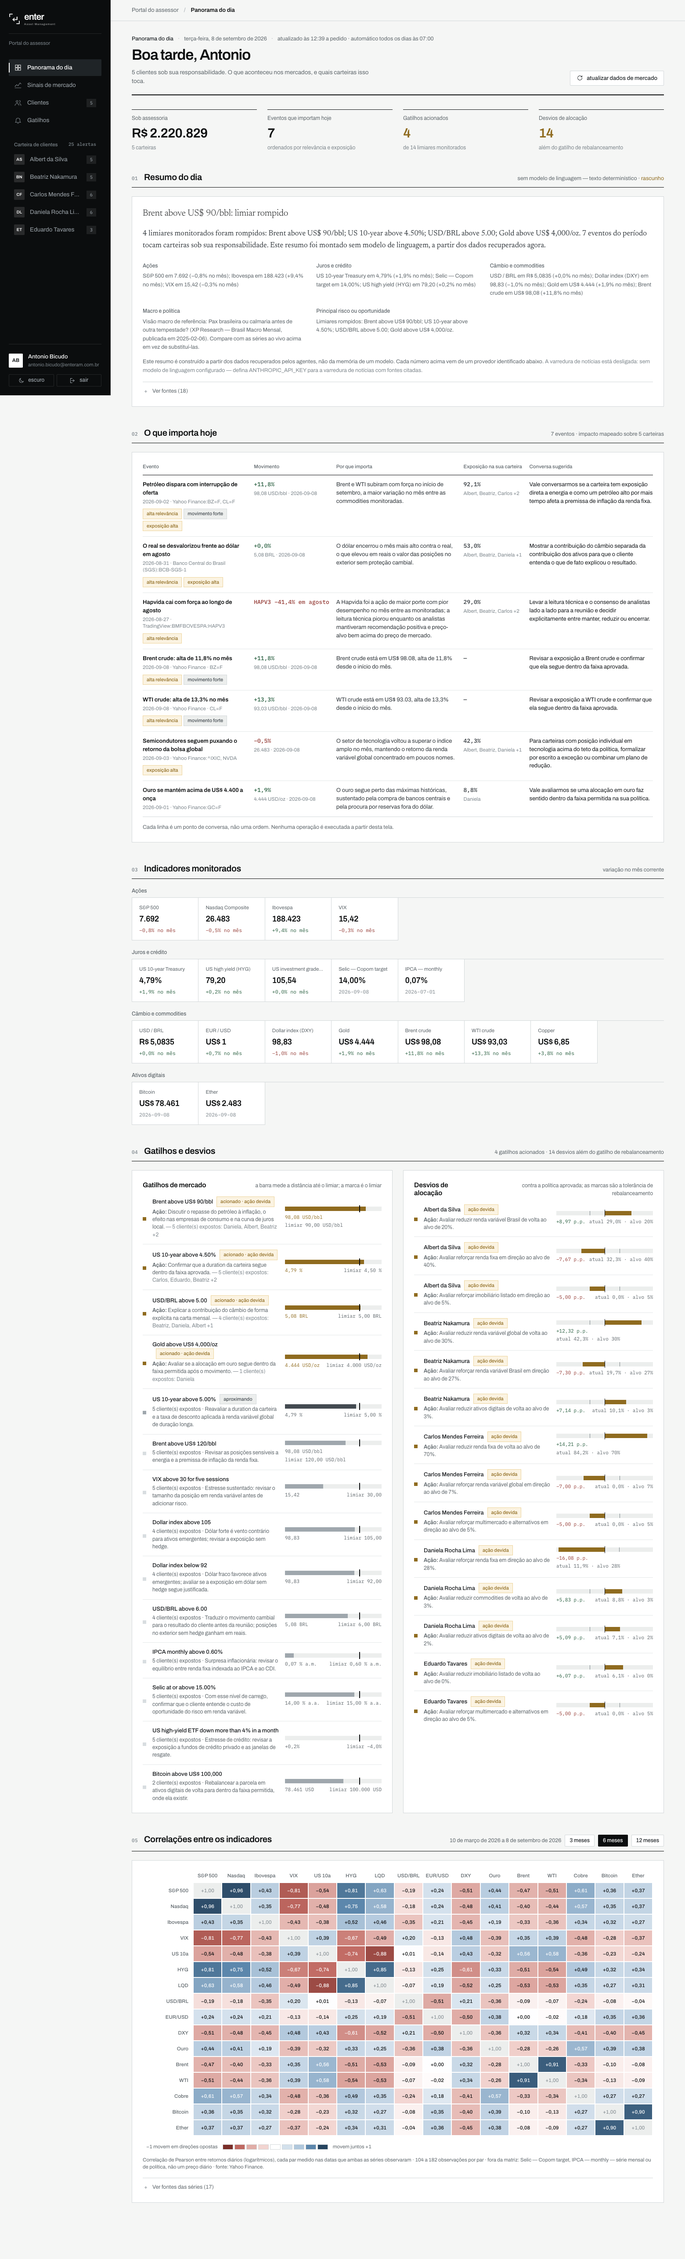
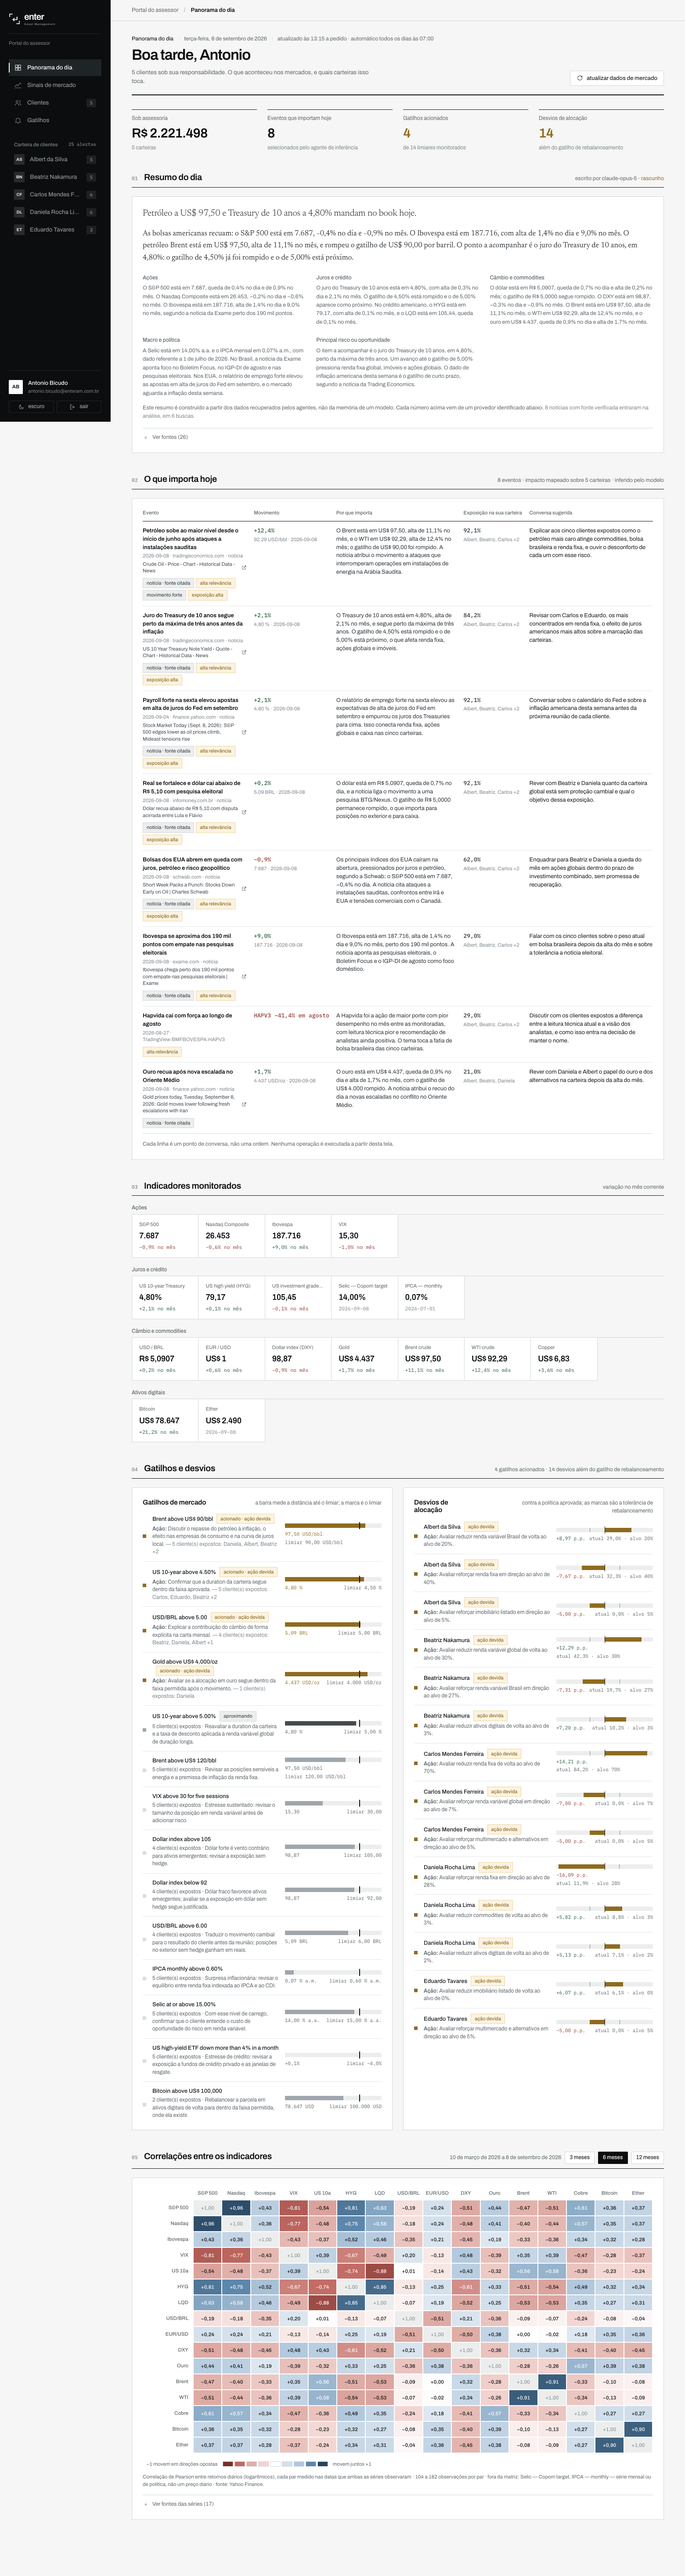
Round BRL thresholds print with two decimals; docs capture the model-written overview
Claude-Session: https://claude.ai/code/session_01XZq77NZRsrRS5ekzwjkqtC

diff --git a/worker/src/agents.js b/worker/src/agents.js
@@ -365,7 +365,7 @@ function levelText(price, unit) {
   if (['%', '% a.a.', '% a.m.'].includes(unit)) return `${num(price, { decimals: 2 })}%${unit === '% a.a.' ? ' a.a.' : unit === '% a.m.' ? ' a.m.' : ''}`;
   if (unit === 'USD' || unit === 'USD/oz') return `US$ ${num(price, { decimals: 0 })}`;
   if (unit === 'USD/bbl' || unit === 'USD/lb') return `US$ ${num(price, { decimals: 2 })}`;
-  if (unit === 'BRL') return `R$ ${num(price, { decimals: 4 })}`;
+  if (unit === 'BRL') return `R$ ${num(price, { decimals: Number.isInteger(price * 100) ? 2 : 4 })}`; // a quote keeps four decimals; a round threshold does not pretend to
   return num(price, { decimals: price >= 1000 ? 0 : 2 });
 }
 
